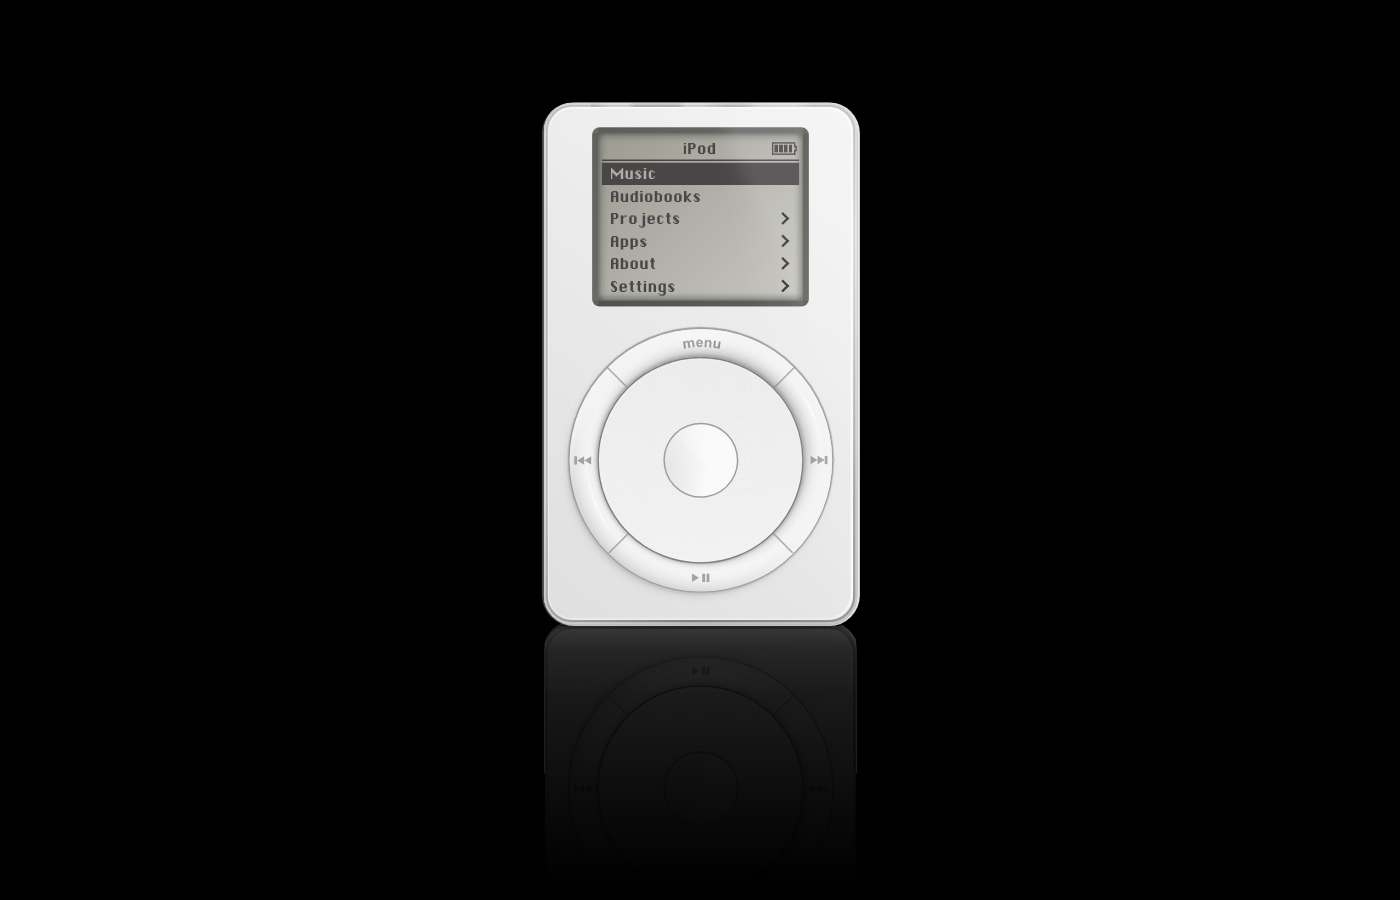
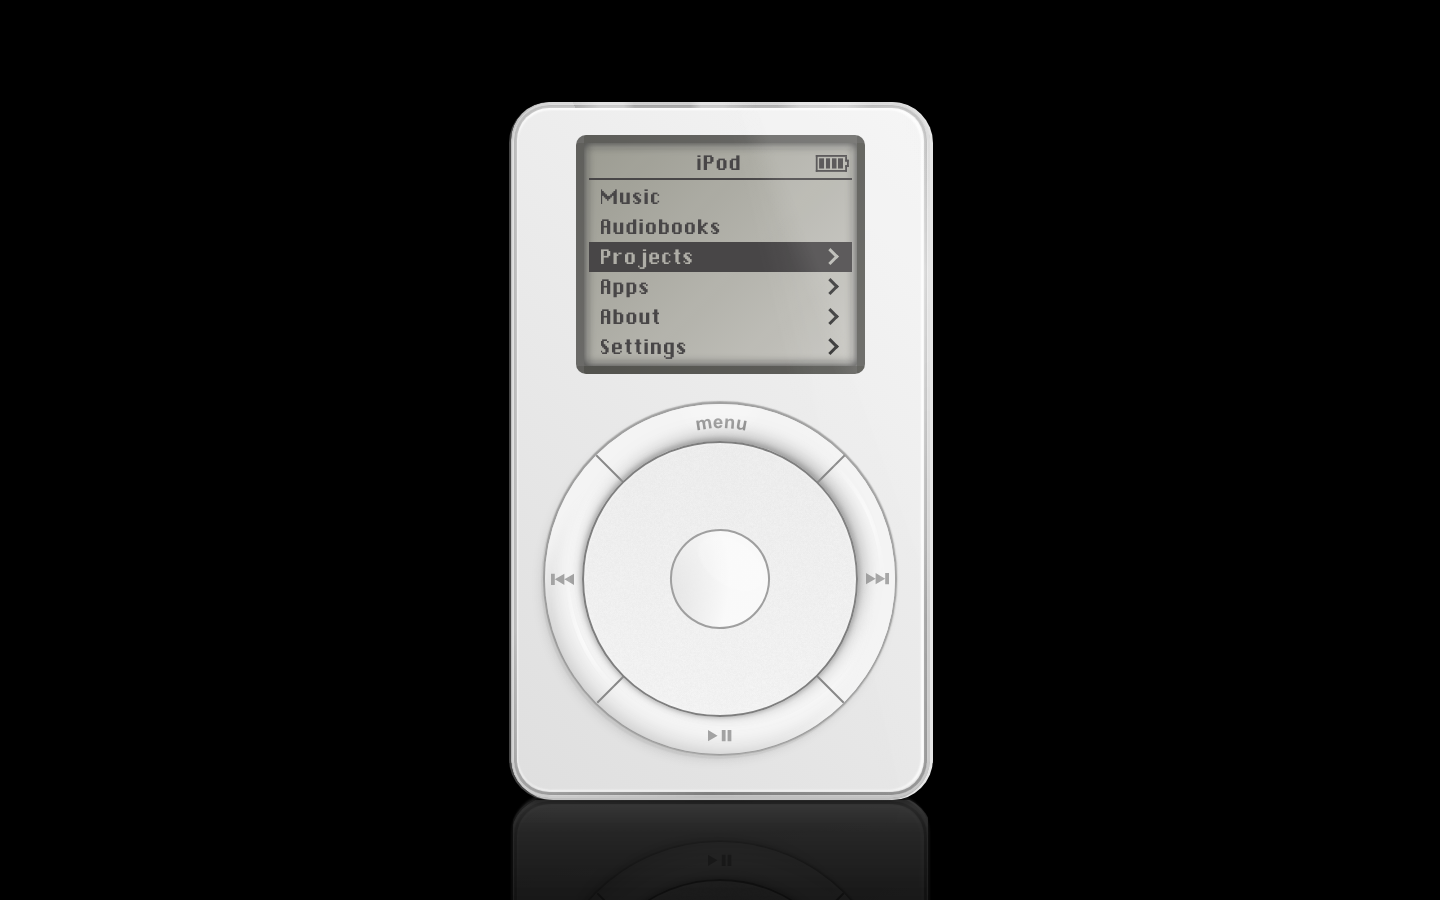
Pin the iPod host to the device width so it stops self-shrinking
At width 0 the component's own container query trips --ipod-scale to 0.75,
which reads as the device zooming in after load. width:440px keeps scale 1.

Adds tests/zoom-check.mjs, which asserts host width and scale at three
viewports.

Changed region(s): [[0.3379, 0.0933, 0.645, 1.0]]

diff --git a/styles.css b/styles.css
@@ -48,8 +48,12 @@ body {
   display: none;
 }
 
+/* The host must be as wide as the device, not shrink-to-fit. At width 0 the
+   component's own `@container ipod (width < 360px)` rule sets --ipod-scale to
+   0.75, so it renders small and then "zooms" once the viewport settles. */
 #stage web-music-ipod {
   display: block;
+  width: 440px;
   min-height: 692px;
   transform-origin: center;
 }
